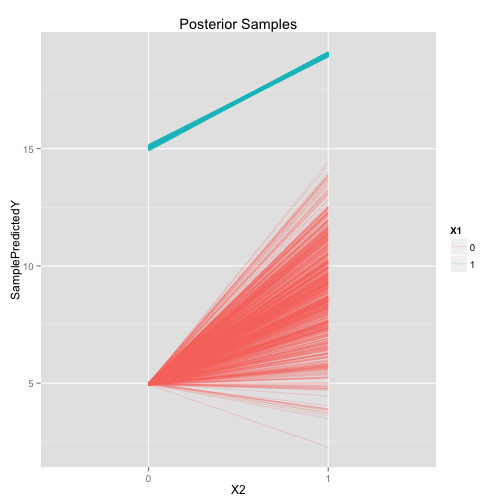
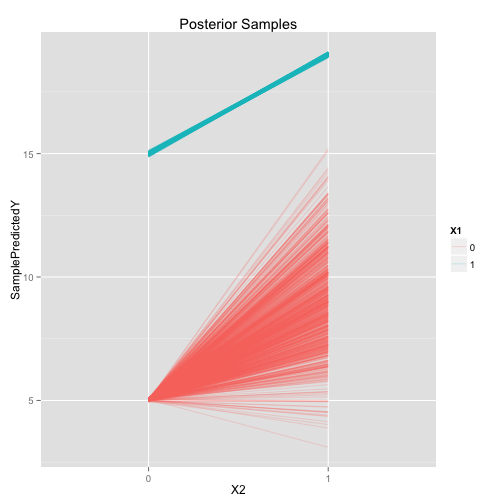
minor

diff --git a/post_source/interaction-or-not/tree.tex b/post_source/interaction-or-not/tree.tex
@@ -12,7 +12,7 @@
       \edge node[auto=right] {$X_1 = 0$};  
       [\node[draw, align=left] {$\bar{Y}=5$\\(no variation \\left to\\ split on)};] 
       \edge node[auto=left] {$X_1 = 1$};  
- [.$Y=17$
+ [.$\bar{Y}=17$
       \edge node[auto=right] {$X_2 = 0$};  
 [$\bar{Y}=15$ ]
       \edge node[auto=left] {$X_2 = 1$};  

diff --git a/_posts/2015-01-14-interaction-or-not.md b/_posts/2015-01-14-interaction-or-not.md
@@ -13,25 +13,17 @@ Whenever possible, I recommend using models like BART that explicitly allow for 
 
 ## The Example
 
-`$$ 
-\begin{itemize}
-  \item The first item
-  \item The second item
-  \item The third etc \ldots
-\end{itemize}
-$$`
-
 Suppose you're given this data and asked to make a prediction at `$X_1 = 0$, $X_2 = 1$` (where we don't have any training data).
 
 ![plot of chunk unnamed-chunk-1](/images/posts/interaction-or-not/unnamed-chunk-1.png) 
 
 <!-- html table generated in R 3.1.1 by xtable 1.7-3 package -->
-<!-- Thu Jan 22 17:26:29 2015 -->
+<!-- Thu Jan 22 17:35:13 2015 -->
 <TABLE border=1>
 <TR> <TH> X1 </TH> <TH> X2 </TH> <TH> Y </TH> <TH> N Training Rows: </TH>  </TR>
-  <TR> <TD align="center"> 0 </TD> <TD align="center"> 0 </TD> <TD align="center"> Y = 5 + small noise </TD> <TD align="center"> 52 </TD> </TR>
-  <TR> <TD align="center"> 1 </TD> <TD align="center"> 0 </TD> <TD align="center"> Y = 15 + small noise </TD> <TD align="center"> 22 </TD> </TR>
-  <TR> <TD align="center"> 1 </TD> <TD align="center"> 1 </TD> <TD align="center"> Y = 19 + small noise </TD> <TD align="center"> 26 </TD> </TR>
+  <TR> <TD align="center"> 0 </TD> <TD align="center"> 0 </TD> <TD align="center"> Y = 5 + small noise </TD> <TD align="center"> 50 </TD> </TR>
+  <TR> <TD align="center"> 1 </TD> <TD align="center"> 0 </TD> <TD align="center"> Y = 15 + small noise </TD> <TD align="center"> 27 </TD> </TR>
+  <TR> <TD align="center"> 1 </TD> <TD align="center"> 1 </TD> <TD align="center"> Y = 19 + small noise </TD> <TD align="center"> 23 </TD> </TR>
   <TR> <TD align="center"> 0 </TD> <TD align="center"> 1 </TD> <TD align="center"> ? </TD> <TD align="center"> 0 </TD> </TR>
    </TABLE>
 
